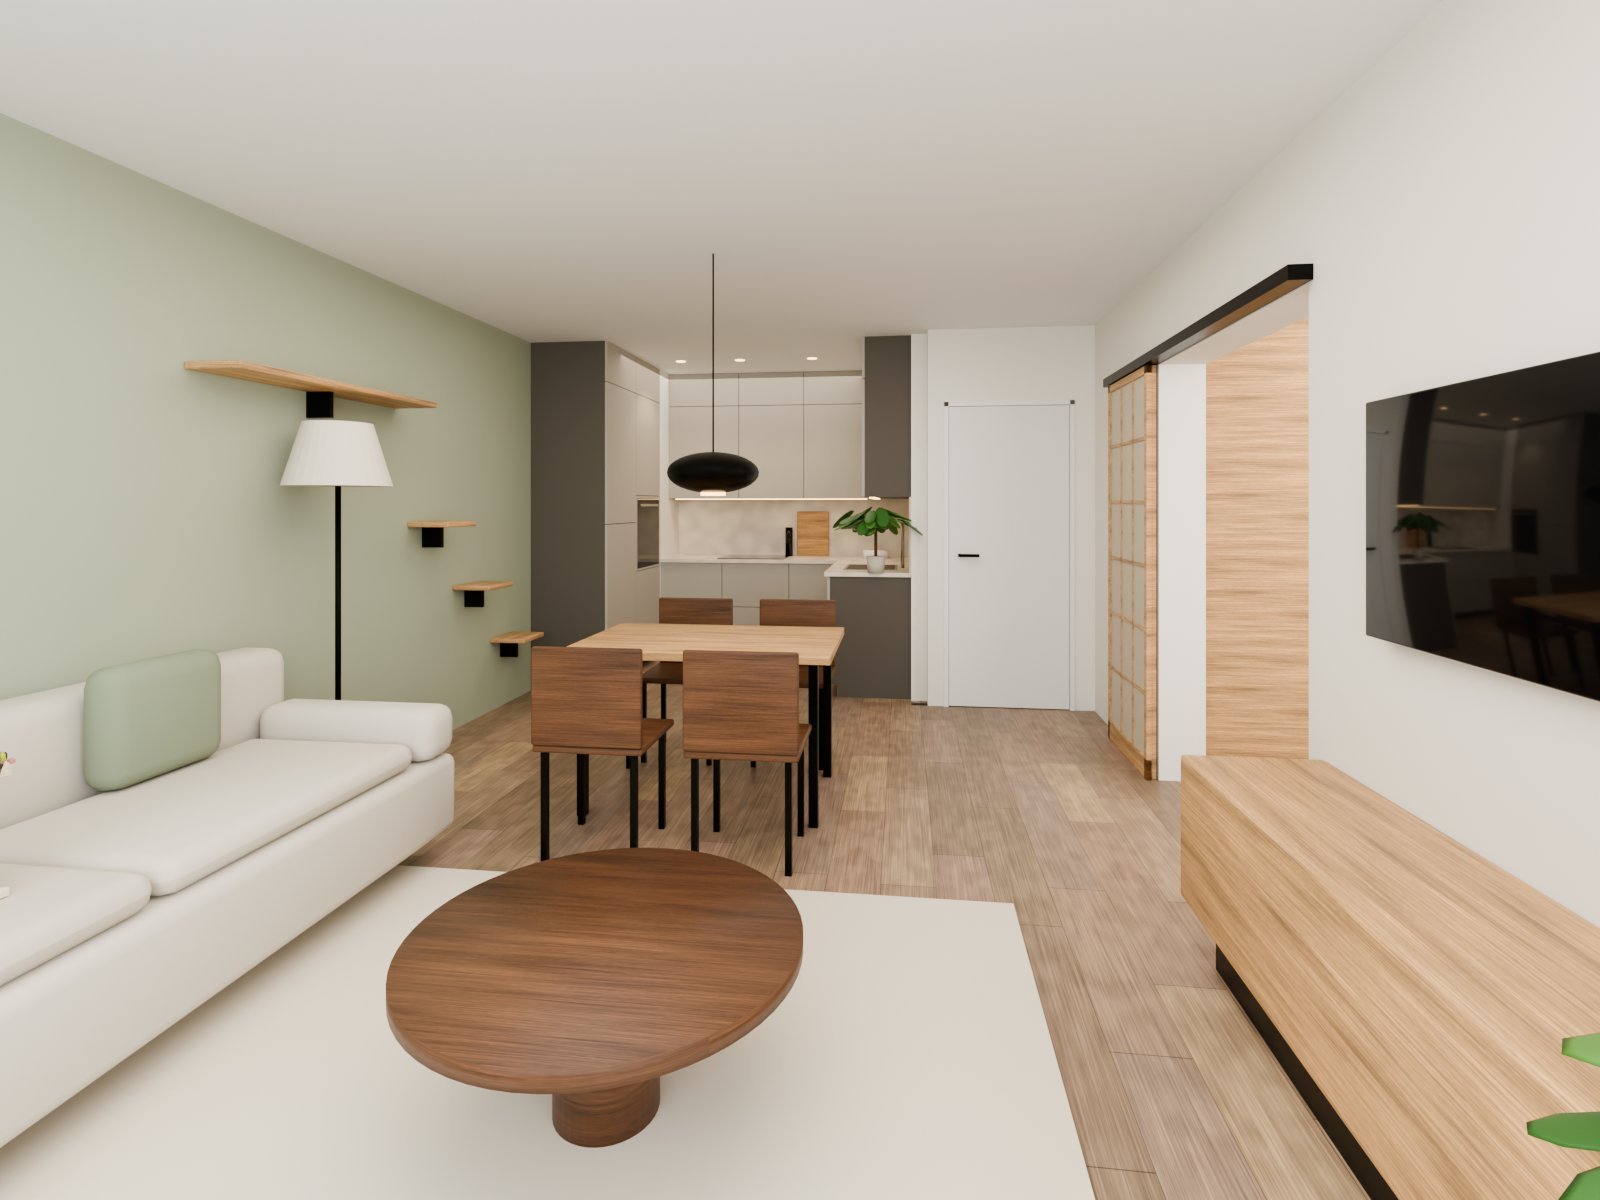
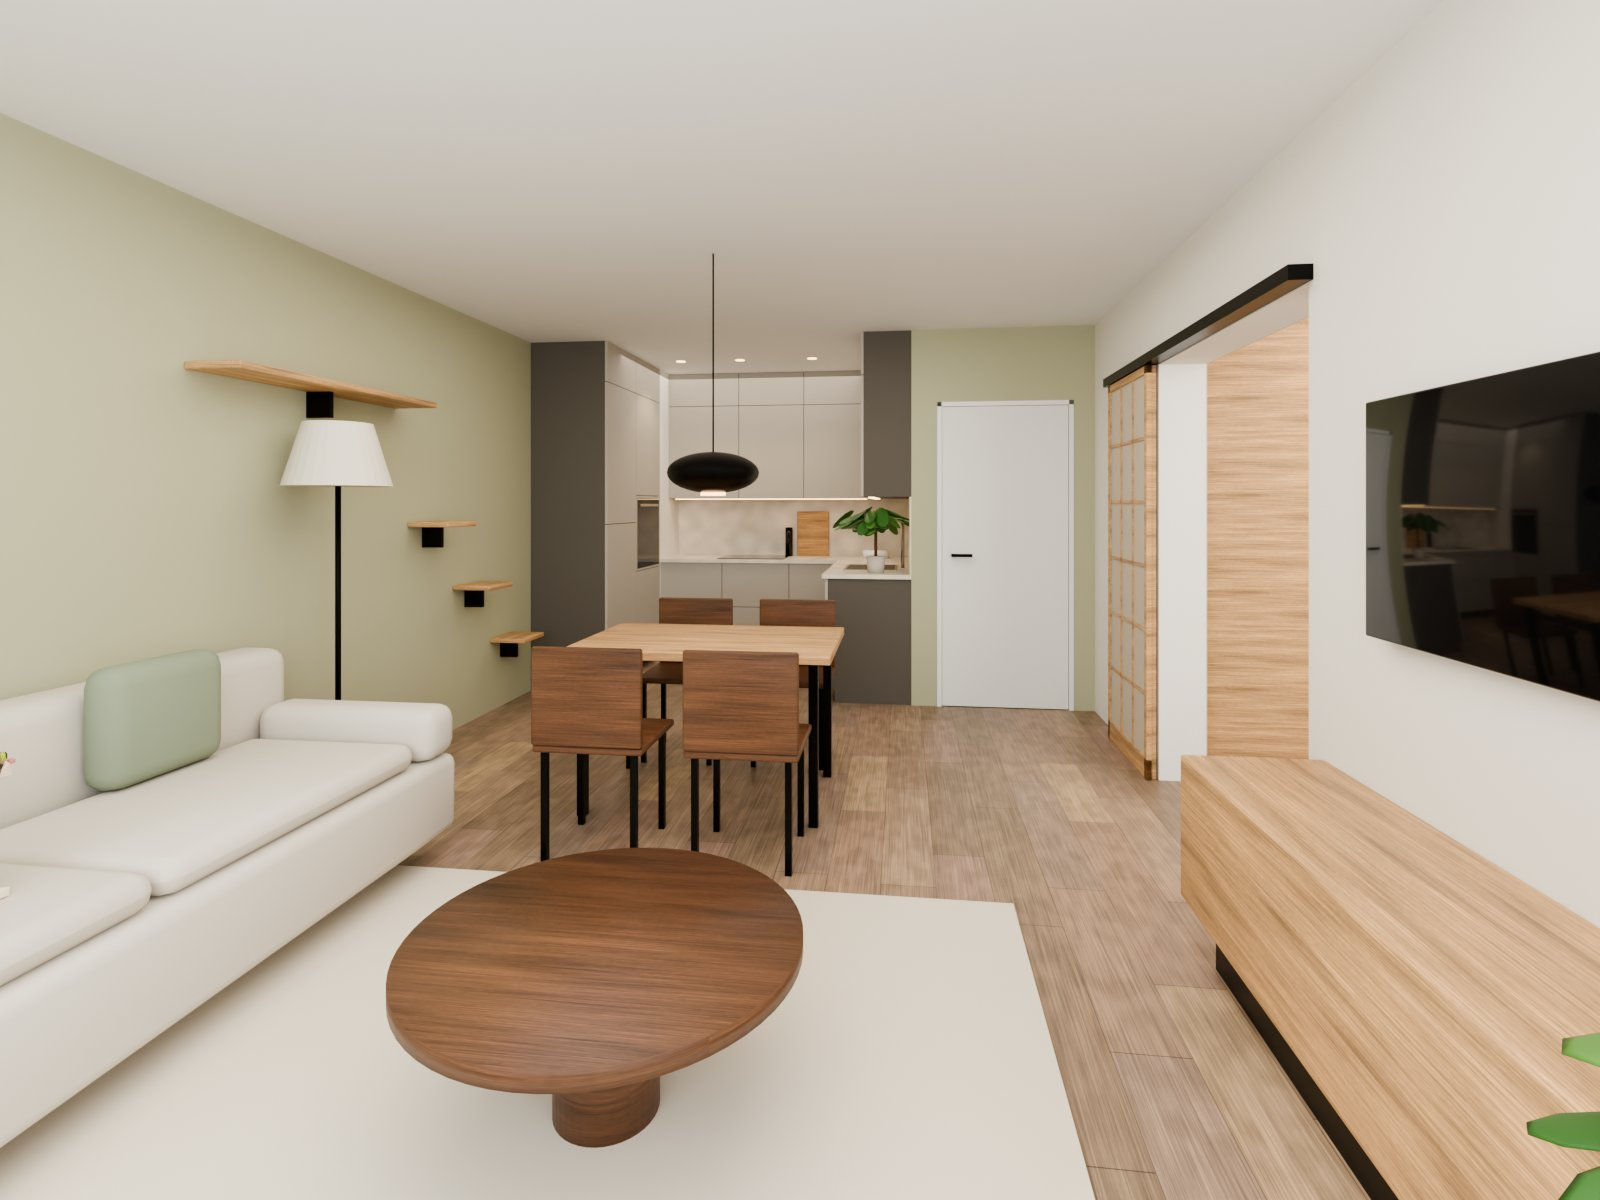
Gallery: paint plan, vertical stacked Rio tiles (Turquoise/Blue/Clay), Bremen Ivoor floor + walls

Changed region(s): [[0.5312, 0.2467, 0.7188, 0.6167], [0.8438, 0.3083, 0.9062, 0.4933]]

diff --git a/gallery/index.html b/gallery/index.html
@@ -103,7 +103,7 @@ figcaption { display: grid; gap: 2px; }
     <h1>Liendenhof Renders</h1>
     <p class="lede">Second pass of the renovated apartment, rendered in Blender (Cycles) from the floor plan. It has your kitchen, bathroom and floor changes, a study instead of the second bedroom, and new lighting and cameras throughout.</p>
     <div class="meta">
-      <span>Rendered <b>10 Oct 2026</b></span><span>Ceiling <b>2.60 m</b></span><span>Frames <b>1600 × 1200</b></span><span>Cycles <b>384 samples</b></span>
+      <span>Rendered <b>11 Oct 2026</b></span><span>Ceiling <b>2.60 m</b></span><span>Frames <b>1600 × 1200</b></span><span>Cycles <b>384 samples</b></span>
       <a class="walk" href="../">Walk through it in 3D →</a>
     </div>
   </header>
@@ -112,9 +112,9 @@ figcaption { display: grid; gap: 2px; }
     <div class="section-head">
       <h2 id="wet-h">Bathroom &amp; toilet · tile colour</h2>
       <div class="swatches" role="group" aria-label="Tile colour">
-        <button class="swatch" id="sw-rio" data-v="rio_turquoise" aria-pressed="true"><i style="background:#1f8a7e"></i>Rio Turquoise</button>
-        <button class="swatch" id="sw-lume" data-v="lume_green" aria-pressed="false"><i style="background:#5f8a52"></i>Lume Green</button>
-        <button class="swatch" id="sw-oxford" data-v="oxford_forest" aria-pressed="false"><i style="background:#22493a"></i>Oxford Bosgroen</button>
+        <button class="swatch" id="sw-turq" data-v="rio_turquoise" aria-pressed="true"><i style="background:#597d6b"></i>Rio Turquoise</button>
+        <button class="swatch" id="sw-blue" data-v="rio_blue" aria-pressed="false"><i style="background:#5c8082"></i>Rio Blue</button>
+        <button class="swatch" id="sw-clay" data-v="rio_clay" aria-pressed="false"><i style="background:#996142"></i>Rio Clay</button>
       </div>
     </div>
     <div class="wet">
@@ -134,8 +134,8 @@ figcaption { display: grid; gap: 2px; }
     <div class="notes">
       <p>The toilet uses the same tile as the shower, so the two always match. The glass panel now stands on the sink side, and the rain head, hand shower and thermostat are on the mirror wall. You walk into the shower from the radiator side.</p>
       <dl class="spec">
-        <dt>Wall tile</dt><dd>Glazed, ~6.5 × 25 cm, light-grey grout, in shower and toilet</dd>
-        <dt>Floor + walls</dt><dd>Light ivory 60 × 60 cm tiles: bathroom and toilet floors, and every bathroom wall outside the shower</dd>
+        <dt>Wall tile</dt><dd>Ceramic Connection Rio, glazed 6 × 25 cm, stacked vertically with grout in the tile colour, in shower and toilet. Shortlist: Turquoise, Blue, Clay</dd>
+        <dt>Floor + walls</dt><dd>Bremen Ivoor 100 × 100 cm (also 60 × 120): bathroom and toilet floors, and every bathroom wall outside the shower. Petra Ivoor 80 × 80 is the option in the walk-through</dd>
         <dt>South wall</dt><dd>Washer column in the corner by the door, towel radiator next to it</dd>
       </dl>
     </div>
@@ -146,7 +146,7 @@ figcaption { display: grid; gap: 2px; }
     <div class="grid">
       <figure class="room feature">
         <button class="shot" data-src="renders/living.jpg" data-cap="Woonkamer"><img src="renders/living.jpg" alt="Living room from the corridor door: dining table in front, sofa, coffee table and floor lamp towards the window, TV wall and the opening to the study on the left" loading="lazy"></button>
-        <figcaption><span class="room-name">Living room <span>· Woonkamer</span></span><span class="dims">4.03 × 6.21 m (8.11 m with the kitchen) · japandi sliding door to the study</span></figcaption>
+        <figcaption><span class="room-name">Living room <span>· Woonkamer</span></span><span class="dims">4.03 × 6.21 m (8.11 m with the kitchen) · warm white, Warm sage behind the sofa and on the hall-door wall</span></figcaption>
         <span class="room-note">The tabby on the sofa is one of the two cats.</span>
       </figure>
       <figure class="room">
@@ -156,7 +156,7 @@ figcaption { display: grid; gap: 2px; }
       </figure>
       <figure class="room">
         <button class="shot" data-src="renders/study.jpg" data-cap="Werkkamer"><img src="renders/study.jpg" alt="Study with a long oak desk, ultrawide monitor and PC, shelves, and a cat tree by the window" loading="lazy"></button>
-        <figcaption><span class="room-name">Study <span>· Werkkamer</span></span><span class="dims">2.82 × 4.38 m · 240 × 80 cm desk · 34″ ultrawide</span></figcaption>
+        <figcaption><span class="room-name">Study <span>· Werkkamer</span></span><span class="dims">2.82 × 4.38 m · greige, a darker sage behind the desk · 34″ ultrawide</span></figcaption>
       </figure>
       <figure class="room feature">
         <button class="shot" data-src="renders/dining.jpg" data-cap="Eethoek"><img src="renders/dining.jpg" alt="Looking from the window end past the sofa and coffee table to the oak dining table for four and a black pendant, with the kitchen behind it" loading="lazy"></button>
@@ -165,11 +165,11 @@ figcaption { display: grid; gap: 2px; }
       </figure>
       <figure class="room">
         <button class="shot" data-src="renders/bedroom1.jpg" data-cap="Slaapkamer"><img src="renders/bedroom1.jpg" alt="Bedroom with a double bed and nightstands" loading="lazy"></button>
-        <figcaption><span class="room-name">Bedroom <span>· Slaapkamer</span></span><span class="dims">2.82 × 4.30 m</span></figcaption>
+        <figcaption><span class="room-name">Bedroom <span>· Slaapkamer</span></span><span class="dims">2.82 × 4.30 m · olive sage on every wall</span></figcaption>
       </figure>
       <figure class="room">
         <button class="shot" data-src="renders/hall.jpg" data-cap="Entree"><img src="renders/hall.jpg" alt="Hallway looking east towards the corridor" loading="lazy"></button>
-        <figcaption><span class="room-name">Hall <span>· Entree</span></span><span class="dims">5.23 × 1.72 m · coats on the rail</span></figcaption>
+        <figcaption><span class="room-name">Hall <span>· Entree</span></span><span class="dims">5.23 × 1.72 m · white · coats on the rail</span></figcaption>
       </figure>
     </div>
   </section>
@@ -178,12 +178,9 @@ figcaption { display: grid; gap: 2px; }
     <div>
       <h3>Changed in this round</h3>
       <ul>
-        <li>Every room has the inside measurements of the measured floor plan: bedroom 2.82 × 4.30, study 2.82 × 4.38, living room and kitchen 4.03 × 8.11 (kitchen 2.81 × 1.90), bathroom 2.81 × 1.82 and hall 1.72 deep.</li>
-        <li>Doors on every room, including the toilet and bathroom, and a japandi sliding door in the opening between the study and the living room.</li>
-        <li>The flat is placed at Liendenhof 234: the block across the street is parallel to the balcony, and the sun comes from the real direction.</li>
-        <li>The shared landing outside the front door is built from your photo, with the green front door, the lift and the doorbell.</li>
-        <li>Real jackets on the coat rail, and the hall mirror is gone.</li>
-        <li>Bathroom and toilet floors and walls in light ivory 60 × 60 tiles (sand and warm grey are options in the walk-through).</li>
+        <li>The paint plan, light to dark: living room warm white with Warm sage behind the sofa and on the hall-door wall, study greige with a darker sage (≈ F&amp;B Lichen) behind the desk, bedroom olive sage (≈ F&amp;B Treron) on every wall. Hall, toilet, storage and ceilings white.</li>
+        <li>Shower and toilet in Ceramic Connection Rio, 6 × 25 cm, stacked vertically with grout in the tile colour. Three candidates to compare: Turquoise (muted green), Blue (grey teal) and Clay (terracotta).</li>
+        <li>Bathroom and toilet floors and the bathroom walls outside the shower in Bremen Ivoor, a calm bone-white concrete look (100 × 100, or 60 × 120 for easier laying).</li>
         <li>Oak cat shelves: a climbing route to a walkway on the sage living-room wall, and two shelves in the study by the cat tree.</li>
       </ul>
     </div>
@@ -200,7 +197,7 @@ figcaption { display: grid; gap: 2px; }
         <ul>
           <li>Look at a door and press <b>E</b> to open it. Ring the doorbell from the landing.</li>
           <li>Press <b>P</b> or use the paint panel, then click a wall to repaint it.</li>
-          <li>The Finishes panel switches paint, tiles and floor. Press <b>L</b> for evening, <b>M</b> to move furniture.</li>
+          <li>The Finishes panel switches paint, tiles (colour and horizontal/vertical stack) and floor. Press <b>L</b> for evening, <b>M</b> to move furniture.</li>
           <li>Click a cat to pet it.</li>
         </ul>
       </div>
@@ -212,7 +209,7 @@ figcaption { display: grid; gap: 2px; }
 <div class="lightbox" id="lightbox" hidden><img id="lb-img" alt=""><p id="lb-cap"></p></div>
 
 <script>
-const names = { rio_turquoise: "Rio Turquoise", lume_green: "Lume Green", oxford_forest: "Oxford Bosgroen" };
+const names = { rio_turquoise: "Rio Turquoise", rio_blue: "Rio Blue", rio_clay: "Rio Clay" };
 let tile = "rio_turquoise";
 const srcFor = (view) => `renders/${view}_${tile}.jpg`;
 document.querySelectorAll(".swatch").forEach(btn => btn.addEventListener("click", () => {
